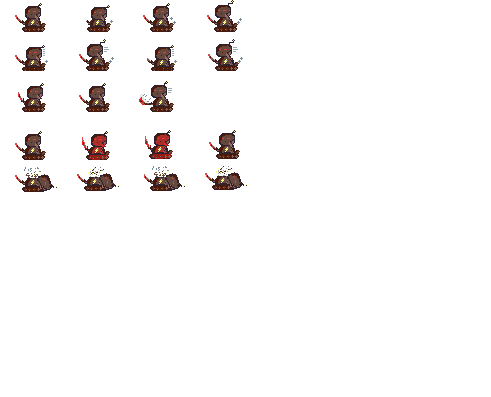
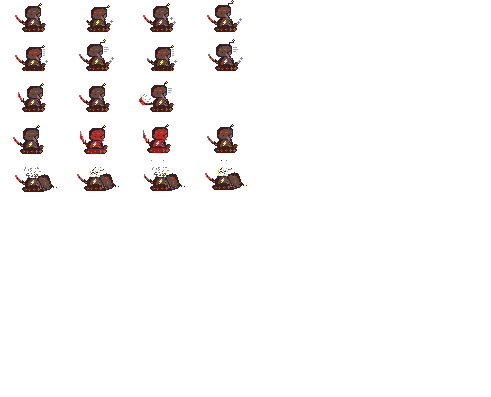
fix:ded

diff --git a/PlatformerTutorial/src/entities/Robot.java b/PlatformerTutorial/src/entities/Robot.java
@@ -22,14 +22,14 @@ public class Robot extends Enemy{
 	}
 	private void updateAttackBox() {
 		if (walkDir == RIGHT)
-			attackBox.x = hitbox.x + hitbox.width + (int) (Game.SCALE * 5);
+			attackBox.x = hitbox.x + hitbox.width - (int) (Game.SCALE * 5) ;
 		else if (walkDir == LEFT)
 			attackBox.x = hitbox.x - hitbox.width - (int) (Game.SCALE * 5);
 
 		attackBox.y = hitbox.y + (Game.SCALE * 10);
 	}
 	private void initAttackBox() {
-		attackBox = new Rectangle2D.Float(x, y, (int) (20 * Game.SCALE), (int) (20 * Game.SCALE));
+		attackBox = new Rectangle2D.Float(x, y, (int) (40 * Game.SCALE), (int) (20 * Game.SCALE));
 	}
 	private void updatemove(int[][] lvlData, Player player) {
 		if (firstUpdate)

diff --git a/PlatformerTutorial/src/entities/EnemyManager.java b/PlatformerTutorial/src/entities/EnemyManager.java
@@ -59,7 +59,7 @@ public class EnemyManager {
 	}
 	private void loadEnemyImgs() {
 		BufferedImage temp = LoadSave.GetSpriteAtlas(LoadSave.ROBOT_ATLAS);
-		RobotArr = new BufferedImage[4][4];
+		RobotArr = new BufferedImage[5][4];
 		for (int j = 0; j < RobotArr.length; j++)
 			for (int i = 0; i < RobotArr[j].length; i++)
 				RobotArr[j][i] = temp.getSubimage(i * 64, j * 40, 64, 40);

diff --git a/PlatformerTutorial/src/utilz/Constants.java b/PlatformerTutorial/src/utilz/Constants.java
@@ -35,7 +35,7 @@ public class Constants {
 				case HIT:
 					return 3;
 				case DEAD:
-					return 3;
+					return 4;
 				}
 			}
 
